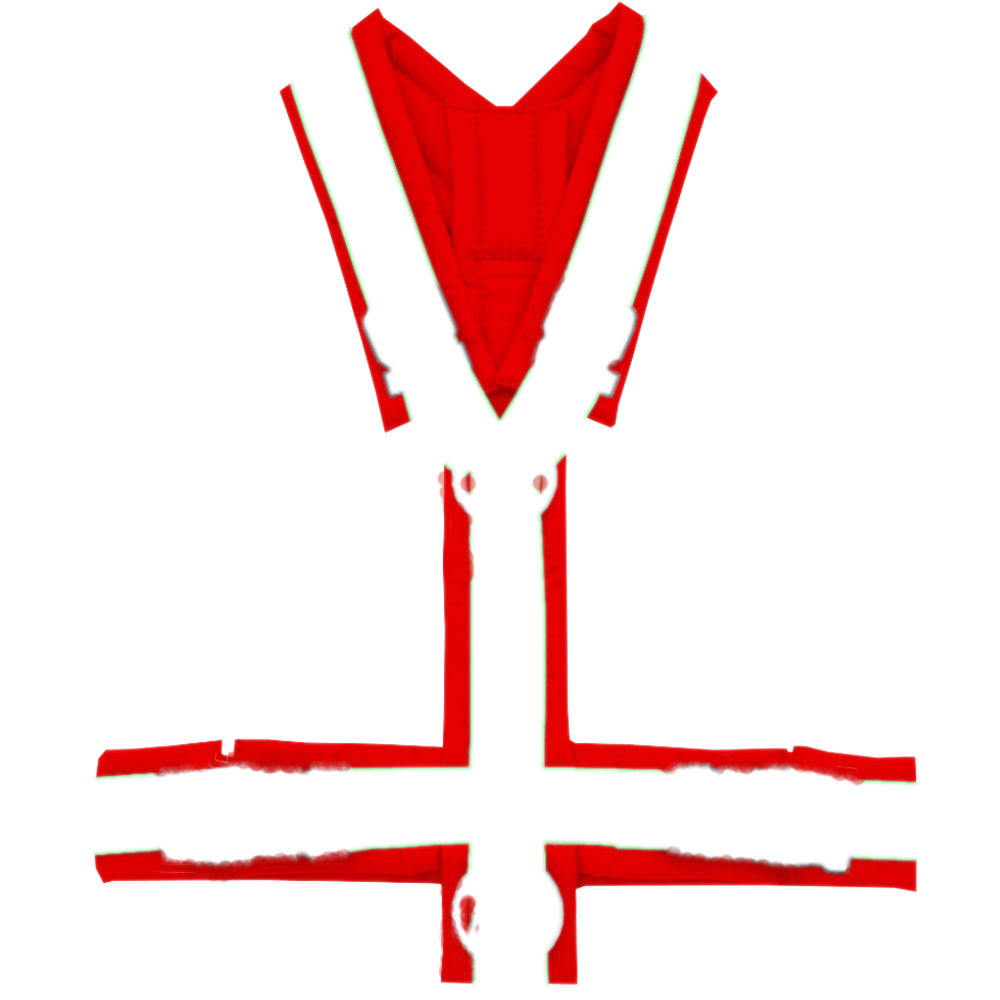
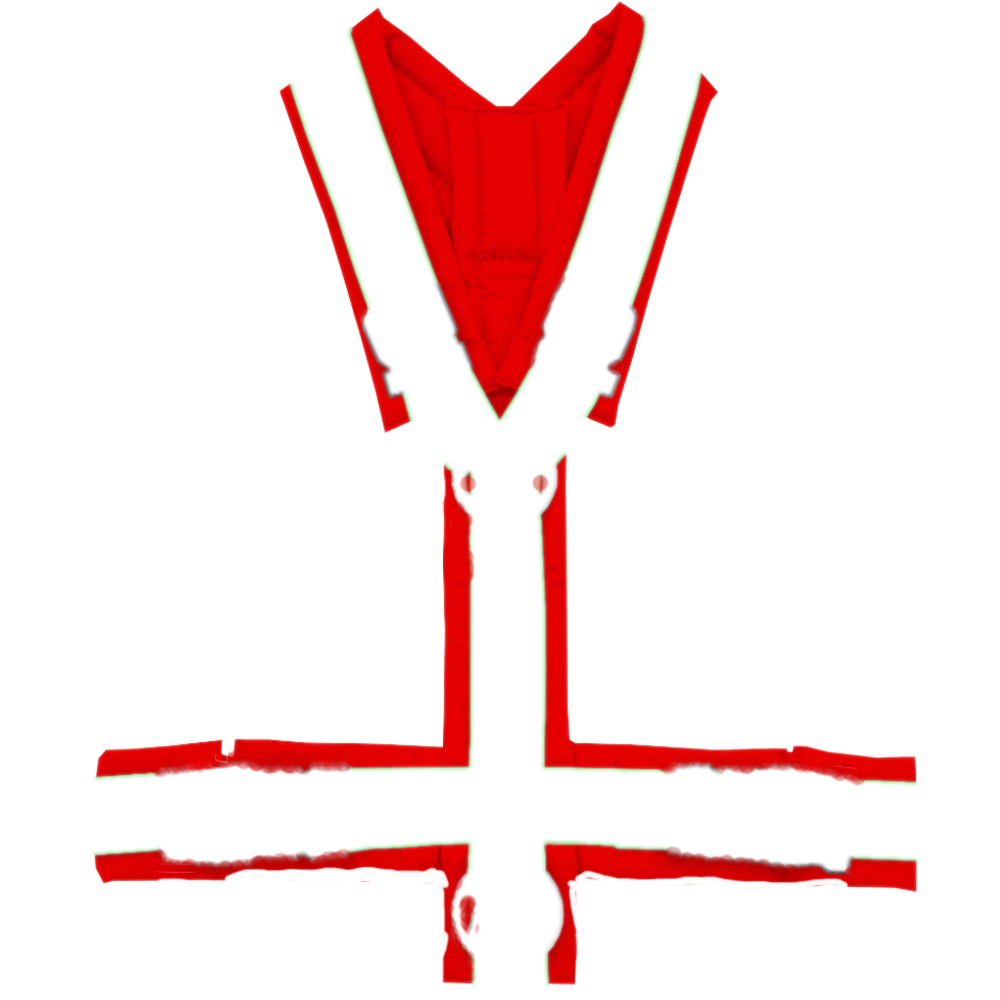
Boost metallic gradient intensity and re-add rosegold pink tone
The metal gradient was too subtle to read as metallic; widens the
light-to-dark swing and adds a second highlight band for a more
polished sheen, and brings back more pink into rosegold.

Changed region(s): [[0.558, 0.868, 0.837, 0.93], [0.217, 0.868, 0.465, 0.961], [0.434, 0.465, 0.465, 0.496]]

diff --git a/assets/geschirr-configurator.js b/assets/geschirr-configurator.js
@@ -38,11 +38,12 @@
 
     function metallicGradient(ctx, canvas, hex) {
       const grad = ctx.createLinearGradient(0, 0, canvas.width, canvas.height);
-      grad.addColorStop(0, shadeHex(hex, 110));
-      grad.addColorStop(0.2, shadeHex(hex, 40));
-      grad.addColorStop(0.45, hex);
-      grad.addColorStop(0.7, shadeHex(hex, -30));
-      grad.addColorStop(1, shadeHex(hex, -70));
+      grad.addColorStop(0, shadeHex(hex, 150));
+      grad.addColorStop(0.18, shadeHex(hex, 45));
+      grad.addColorStop(0.38, shadeHex(hex, -20));
+      grad.addColorStop(0.55, shadeHex(hex, 90));
+      grad.addColorStop(0.72, shadeHex(hex, -55));
+      grad.addColorStop(1, shadeHex(hex, -110));
       return grad;
     }
 
